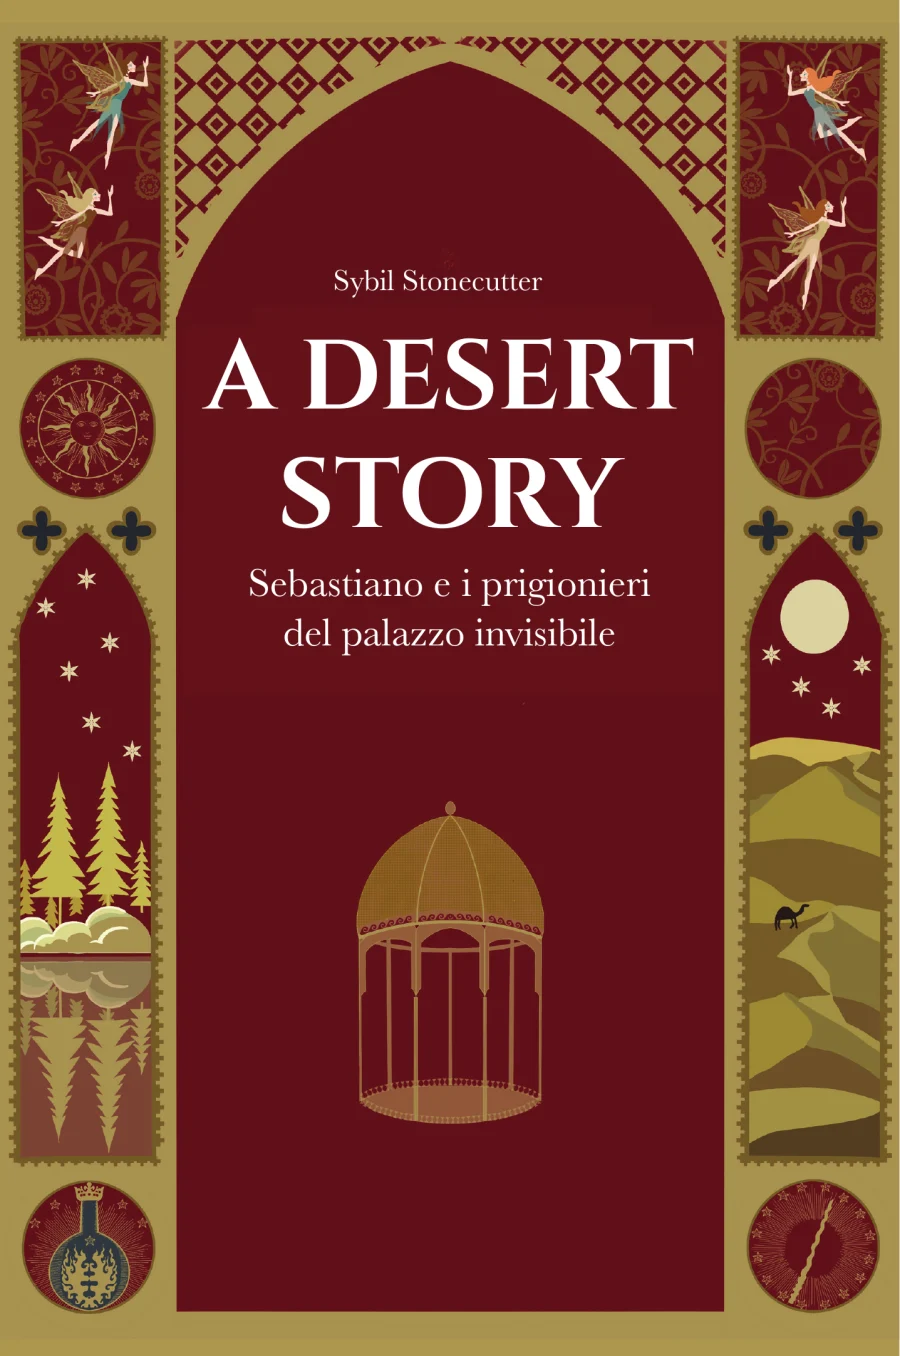
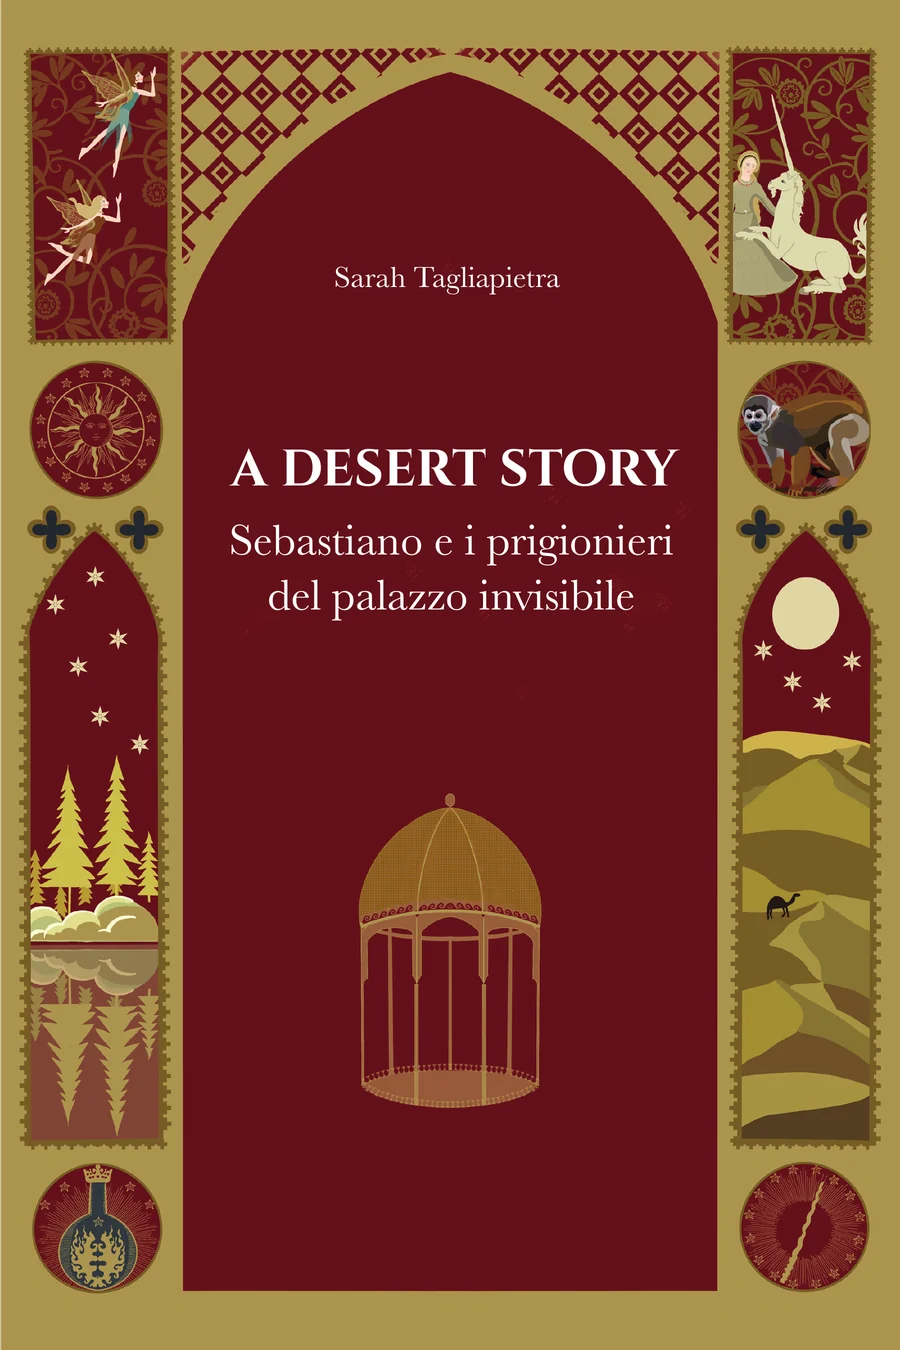
Rifa la copertina del sito dal PDF di stampa
L'immagine in home portava stampato lo pseudonimo ritirato «Sybil
Stonecutter», ed era per giunta una versione vecchia dell'arte: titolo
su due righe e pannelli laterali diversi. Il libro e' pubblicato con il
nome vero.

- img/copertina.webp rigenerato dal PDF di stampa consegnato il 21/09,
  reso a 300 dpi e ritagliato sul trim netto 6x9 in (1800x2700 px),
  ridotto a 900x1350 in WebP q86
- index.html e en/index.html: gli attributi height passano da 1356 a
  1350 nei quattro punti (.hero-cover e .final-cover), cosi' coincidono
  col file e non c'e' scostamento di layout al caricamento

Ritaglio verificato al pixel contro il PDF (scarto 0,13 mm). APPROVATO
da LORI.

diff --git a/en/index.html b/en/index.html
@@ -1144,7 +1144,7 @@
   <div class="glow" aria-hidden="true"></div>
   <div class="wrap hero-grid">
     <div class="hero-visual">
-      <img class="hero-cover" src="../img/copertina.webp" width="900" height="1356"
+      <img class="hero-cover" src="../img/copertina.webp" width="900" height="1350"
            alt="Cover of A Desert Story: a golden arch on a deep bordeaux background, with a golden pavilion in the desert.">
     </div>
     <div class="hero-text">
@@ -1382,7 +1382,7 @@
 
   <!-- Variante pre-lancio (attiva) -->
   <div class="final-grid prelaunch-only">
-    <img class="final-cover" src="../img/copertina.webp" width="900" height="1356"
+    <img class="final-cover" src="../img/copertina.webp" width="900" height="1350"
          alt="Cover of A Desert Story: a golden arch on a deep bordeaux background.">
     <div class="inner">
       <h2>Out soon. You can start already.</h2>

diff --git a/index.html b/index.html
@@ -1148,7 +1148,7 @@
   <div class="glow" aria-hidden="true"></div>
   <div class="wrap hero-grid">
     <div class="hero-visual">
-      <img class="hero-cover" src="img/copertina.webp" width="900" height="1356"
+      <img class="hero-cover" src="img/copertina.webp" width="900" height="1350"
            alt="Copertina di A Desert Story: un arco dorato su fondo bordeaux, con un padiglione dorato nel deserto.">
     </div>
     <div class="hero-text">
@@ -1382,7 +1382,7 @@
 
   <!-- Variante pre-lancio (attiva) -->
   <div class="final-grid prelaunch-only">
-    <img class="final-cover" src="img/copertina.webp" width="900" height="1356"
+    <img class="final-cover" src="img/copertina.webp" width="900" height="1350"
          alt="Copertina di A Desert Story: un arco dorato su fondo bordeaux.">
     <div class="inner">
       <h2>Esce presto. Intanto puoi già cominciare.</h2>
